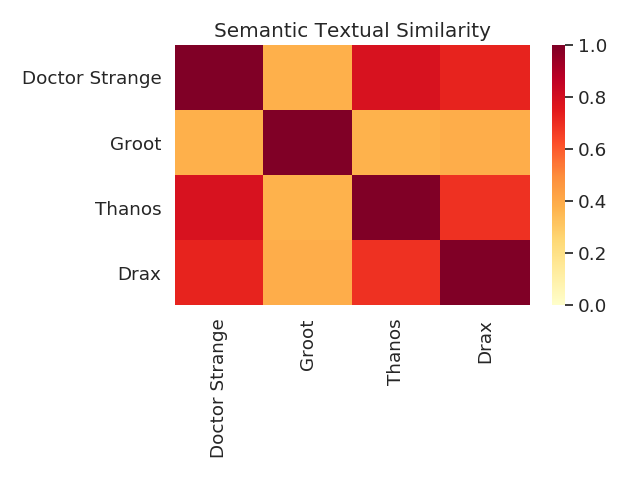
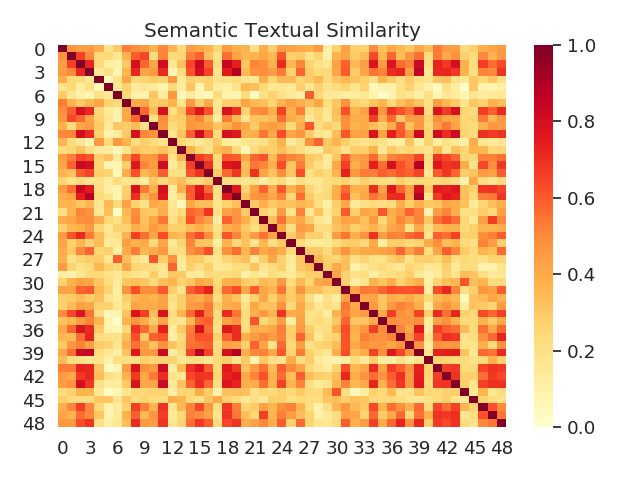
Add results

diff --git a/universal-sentence-encoder.py b/universal-sentence-encoder.py
@@ -21,12 +21,12 @@ def plot_similarity(labels, features, rotation):
     corr = np.inner(features, features)
     sns.set(font_scale=1.2)
     g = sns.heatmap(corr,\
-        xticklabels=labels,\
-        yticklabels=labels,\
+        #xticklabels=labels,\
+        #yticklabels=labels,\
         vmin=0,\
         vmax=1,\
         cmap="YlOrRd")
-    g.set_xticklabels(labels, rotation=rotation)
+    #g.set_xticklabels(labels, rotation=rotation)
     g.set_title("Semantic Textual Similarity")
     #figure = g.get_figure()
     plt.tight_layout()
@@ -70,7 +70,7 @@ while flag:
         char_index = int(char_index)
         final_character_lines[characters[char_index]]=character_lines[characters[char_index]]
 
-character_lines = final_character_lines
+#character_lines = final_character_lines
 
 print("================================")
 print("Characters selected:")

diff --git a/process-script.py b/process-script.py
@@ -1,6 +1,6 @@
 import re
-script_processed = open("script-processed.txt",'w')
-with open("script-raw.txt",'r') as script_raw:
+script_processed = open("script-processed",'w')
+with open("script-raw",'r') as script_raw:
     for line in script_raw.readlines():
         x = re.sub("[\(\[].*?[\)\]]", "", line)
         x = x.strip()
